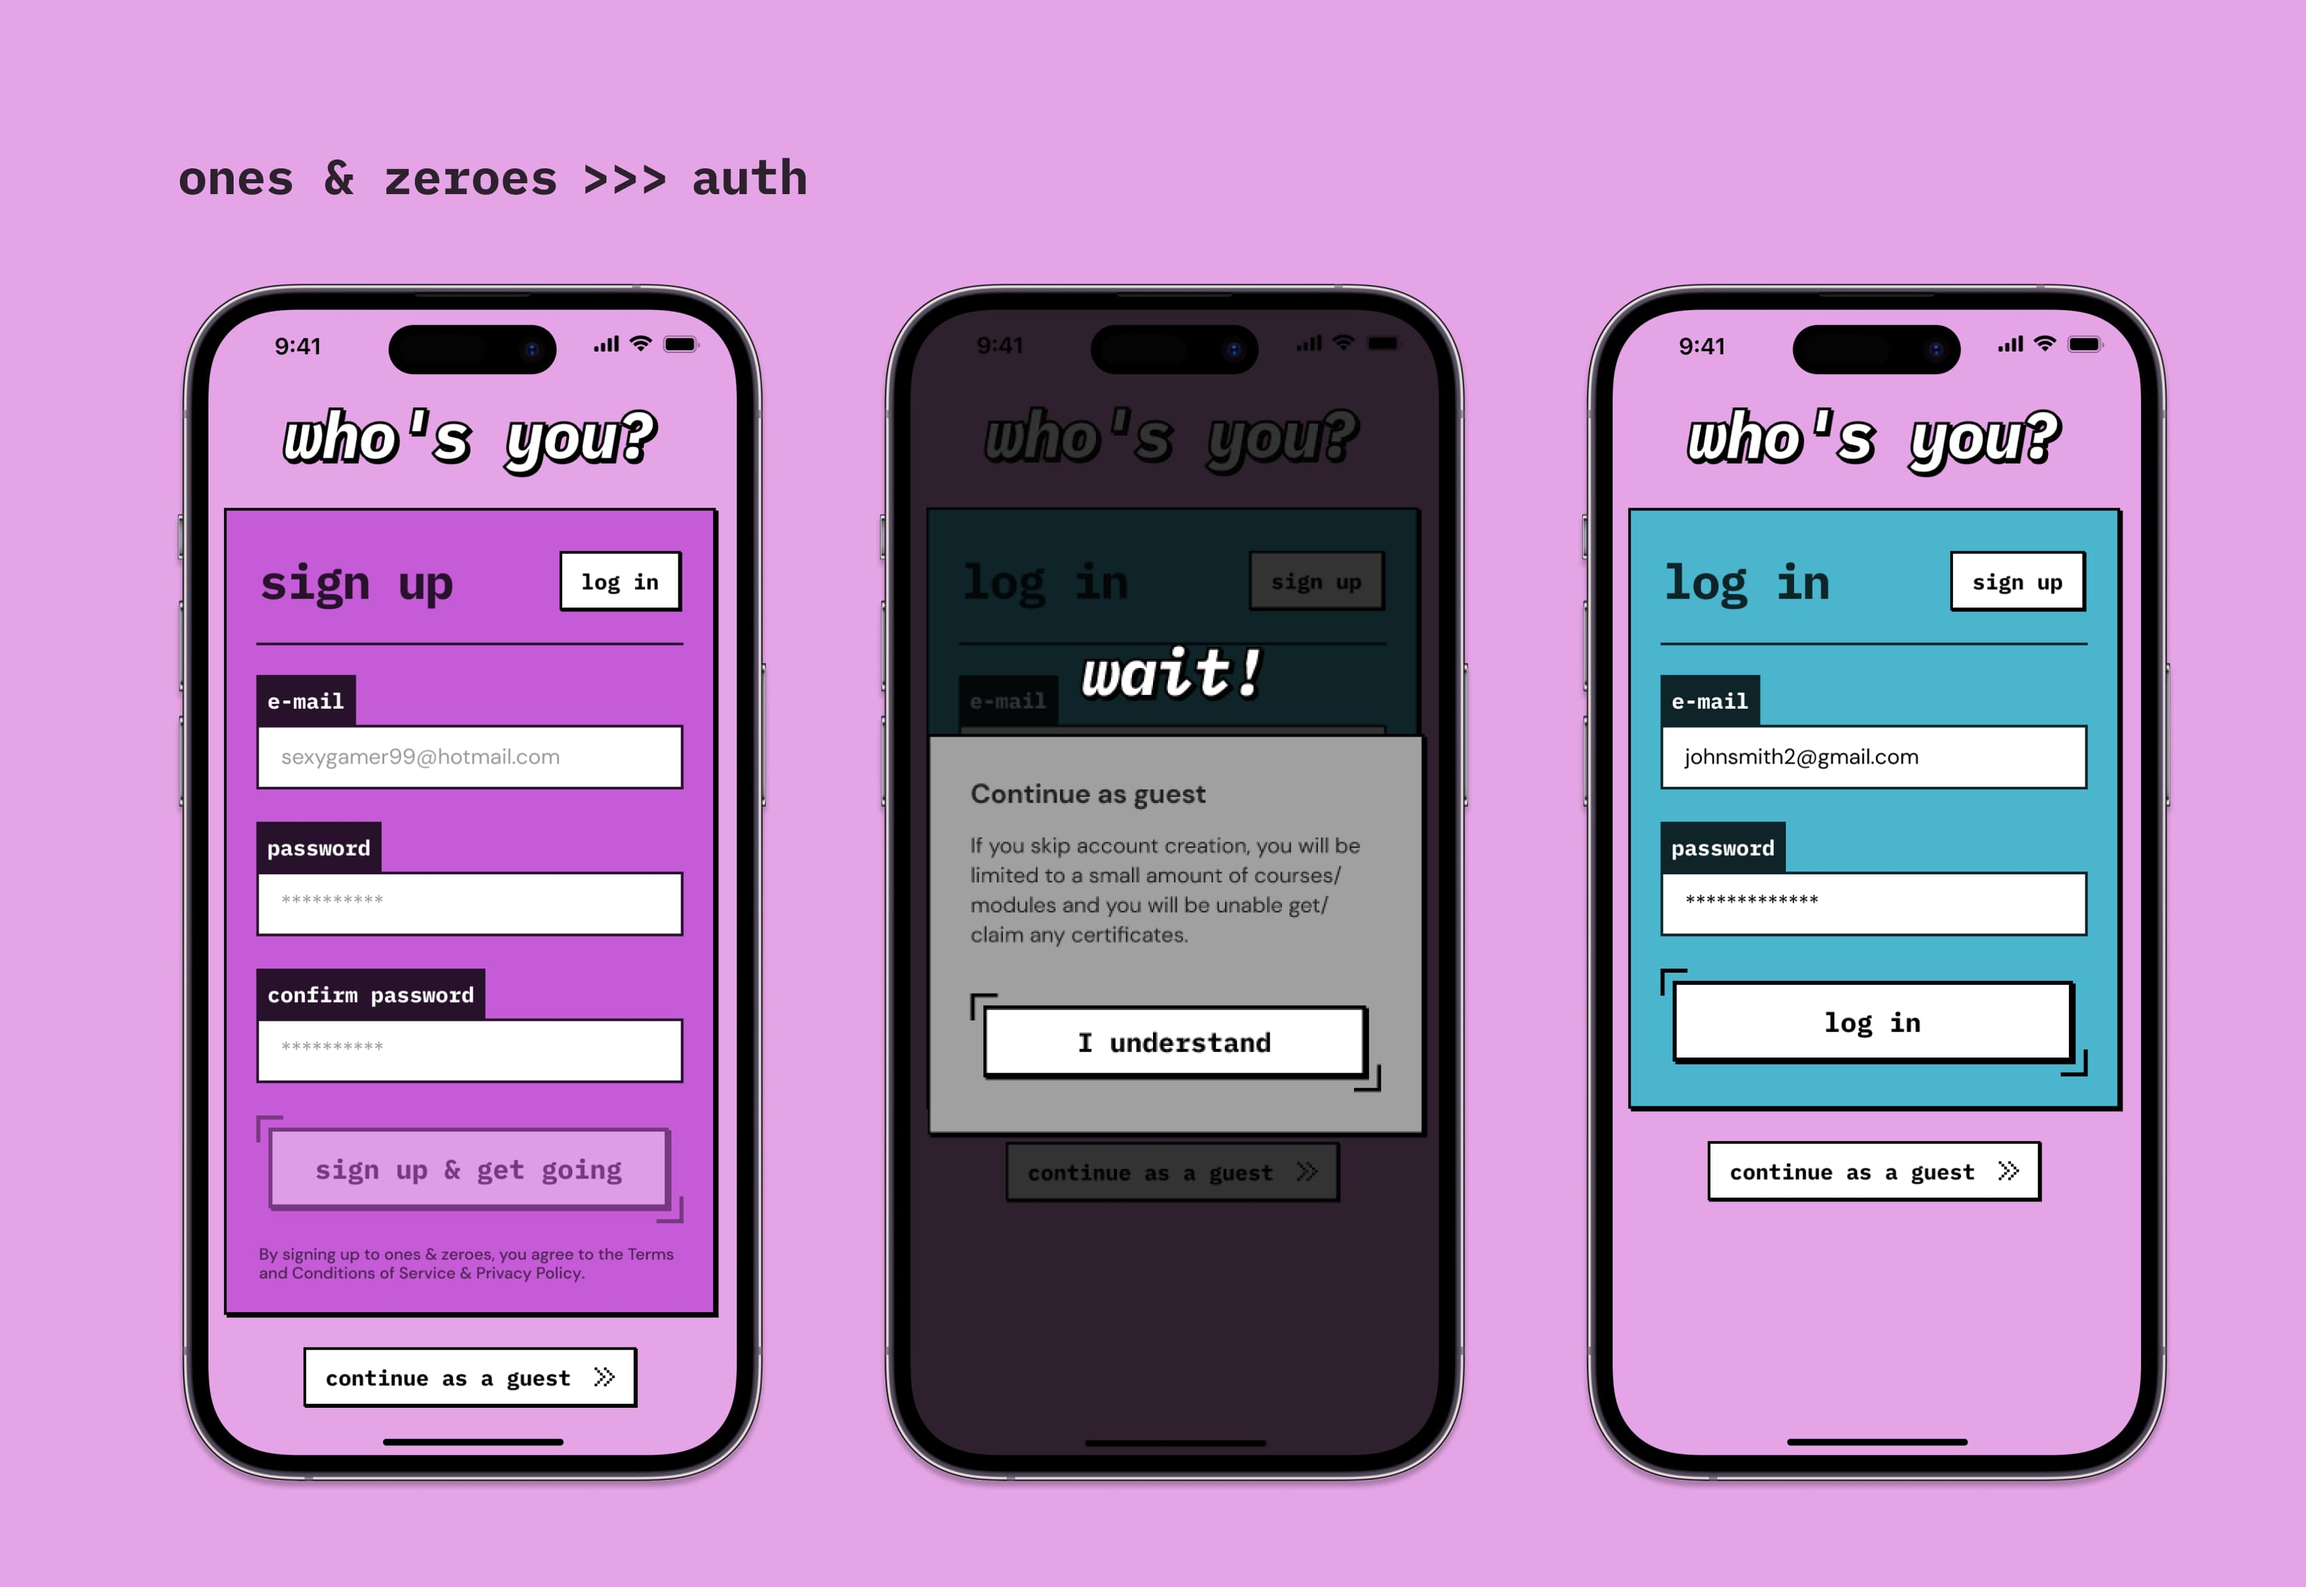
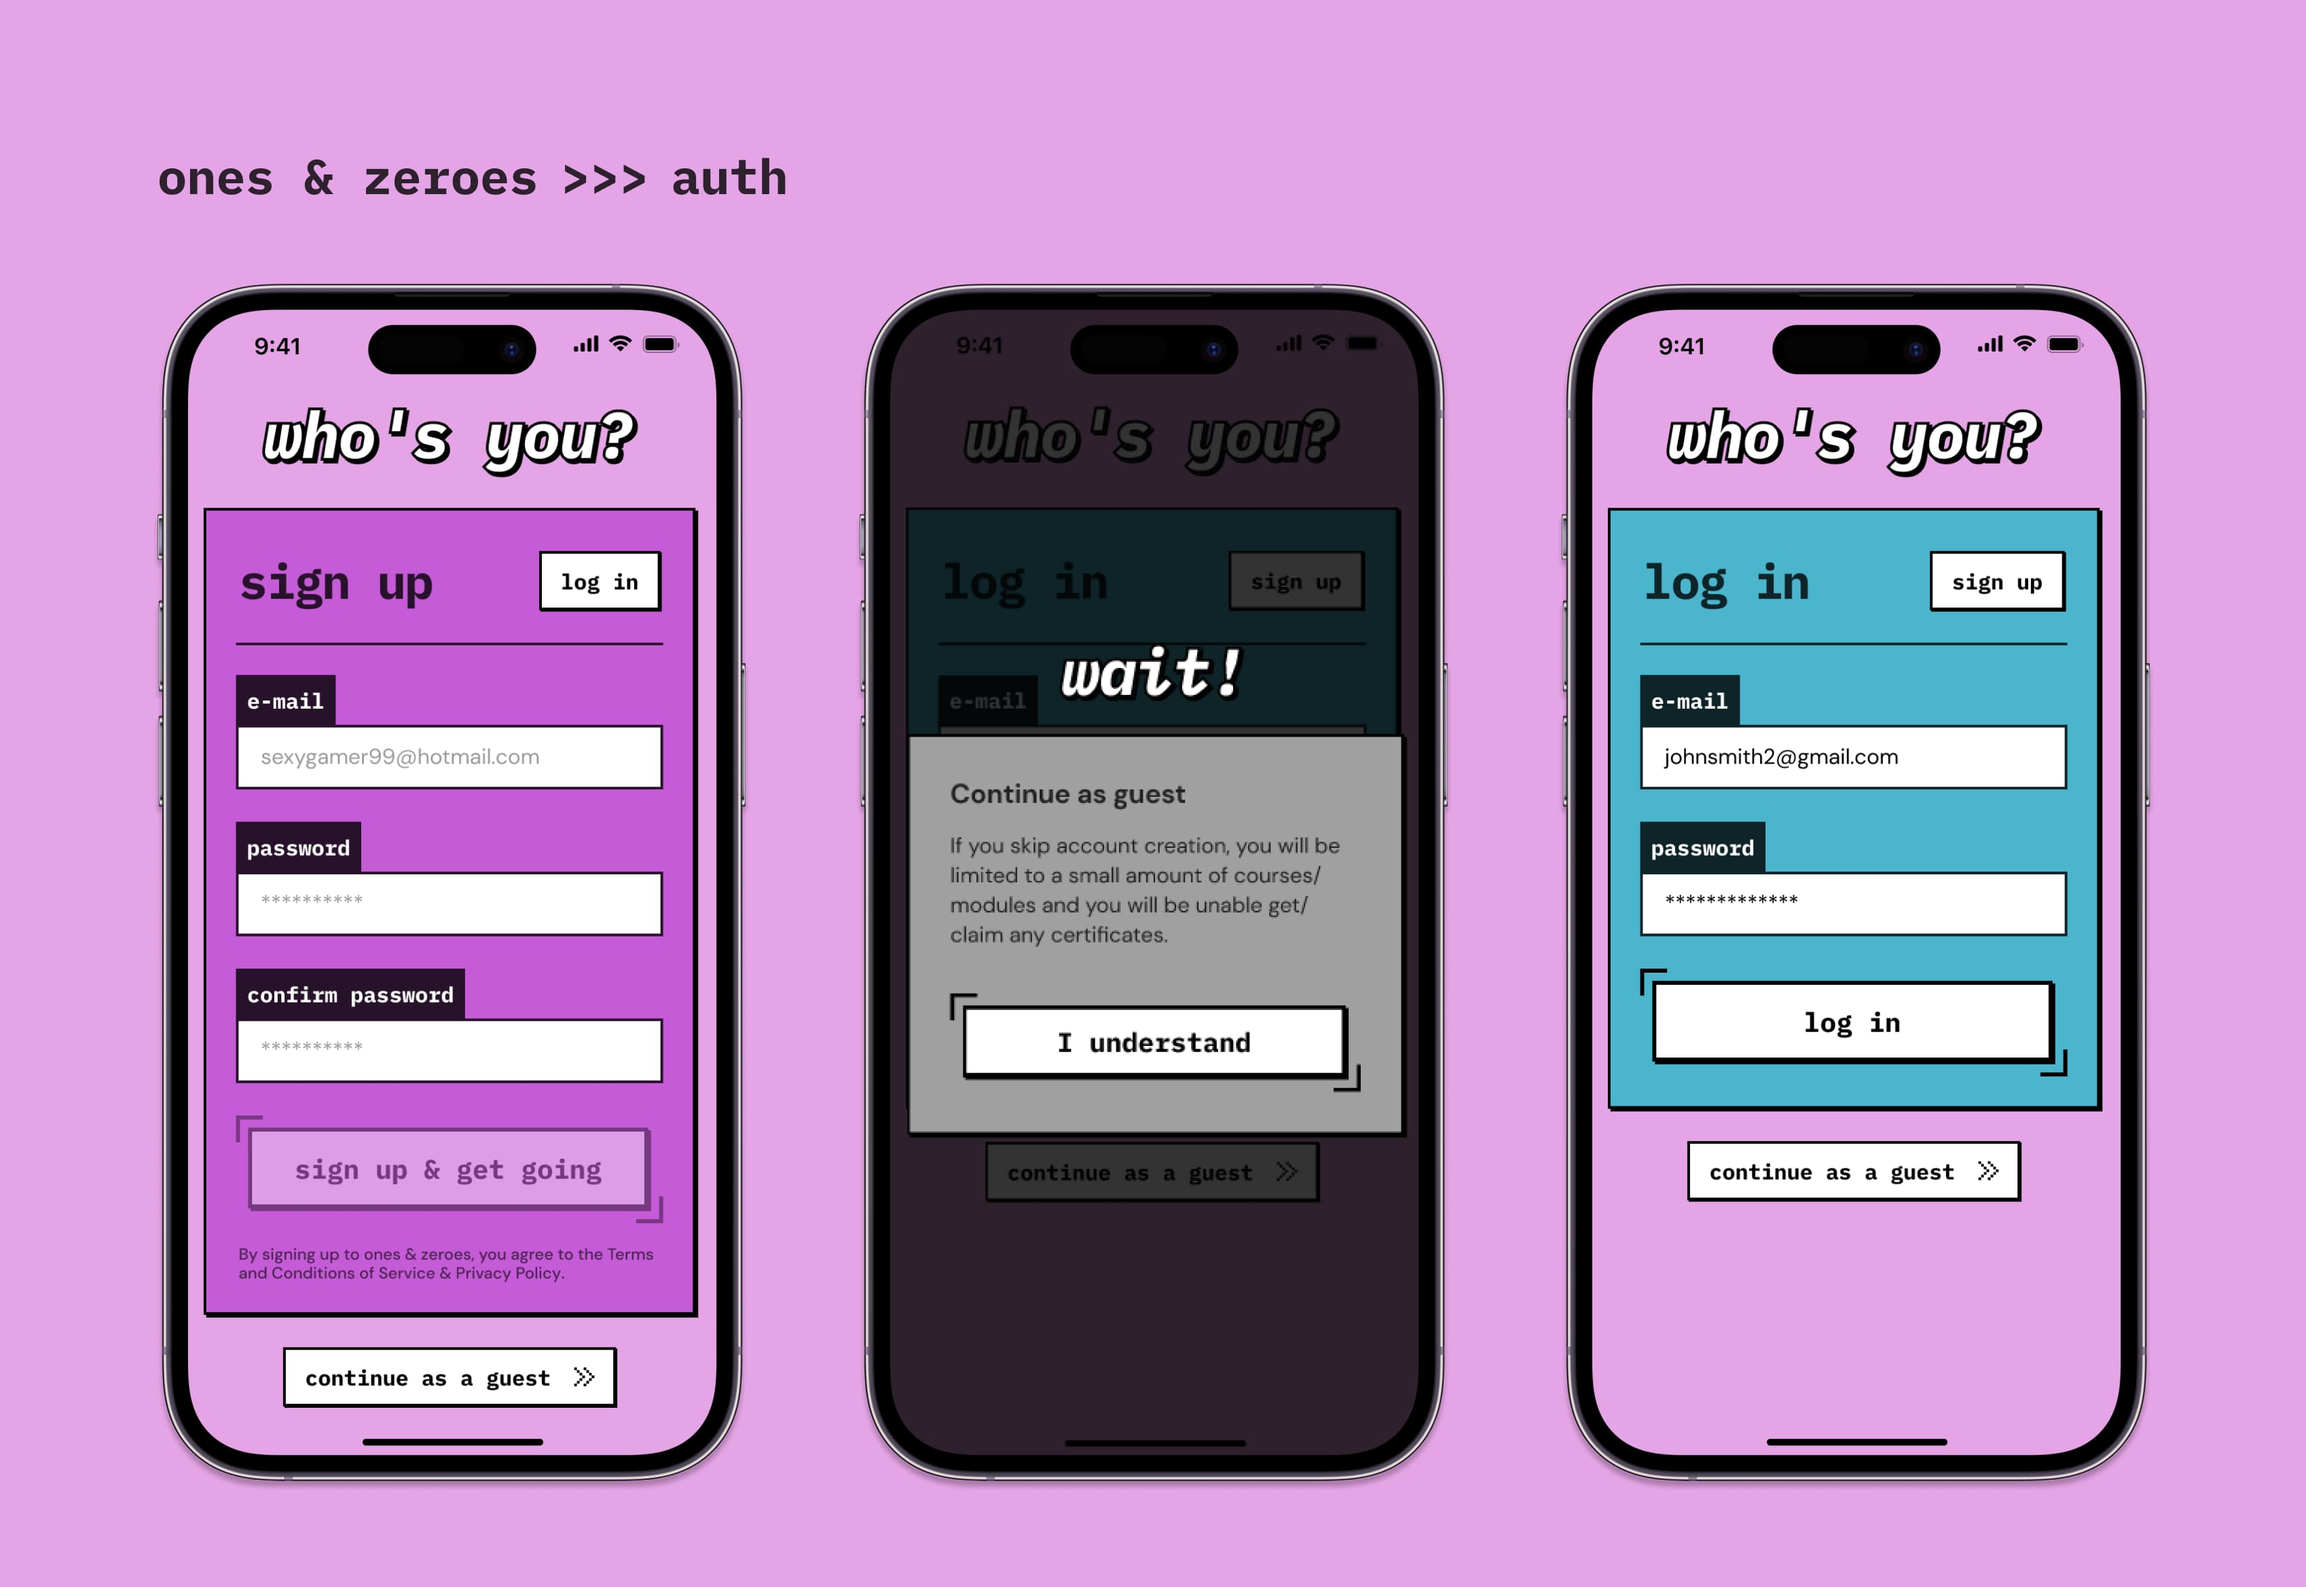
centre images on ones and zeroes

diff --git a/src/content/projects/ones-and-zeroes.md b/src/content/projects/ones-and-zeroes.md
@@ -3,7 +3,7 @@ meta:
   title: ones & zeroes
   description: Upskilling tomorrow's workforce for a digital world.
   published: 2023-03-29
-  # edited: 2022-07-05
+  edited: 2023-04-11
   image: p/ones-and-zeros/cover
 
 pageProps:
